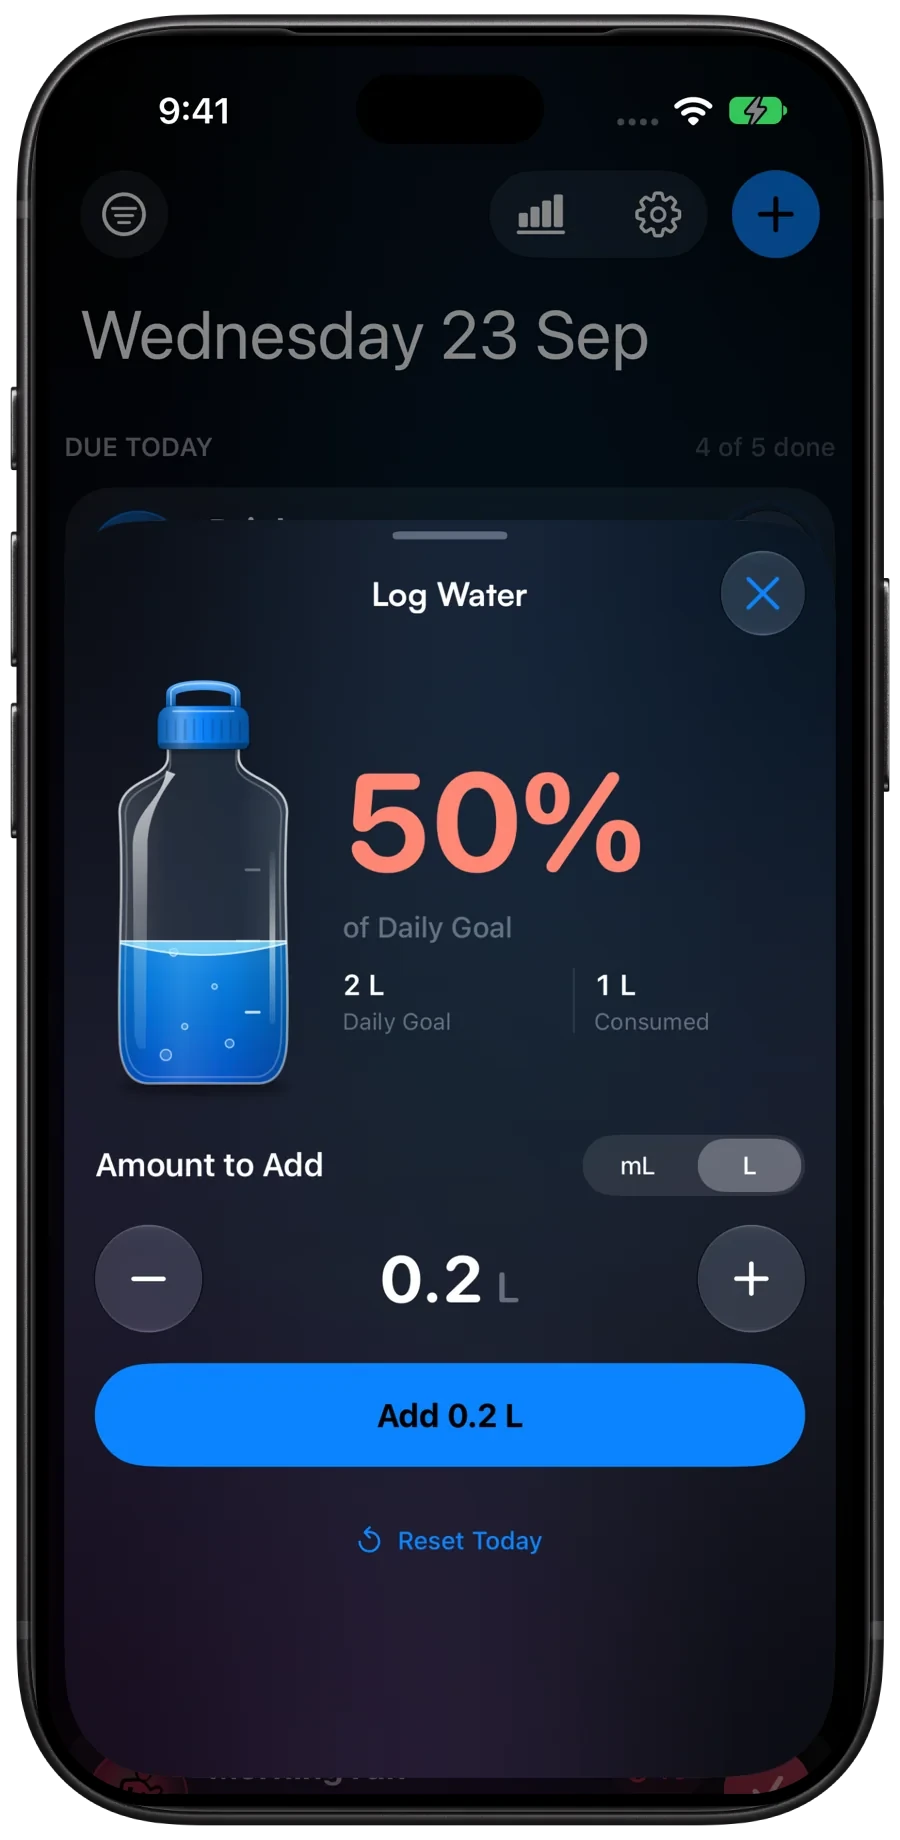
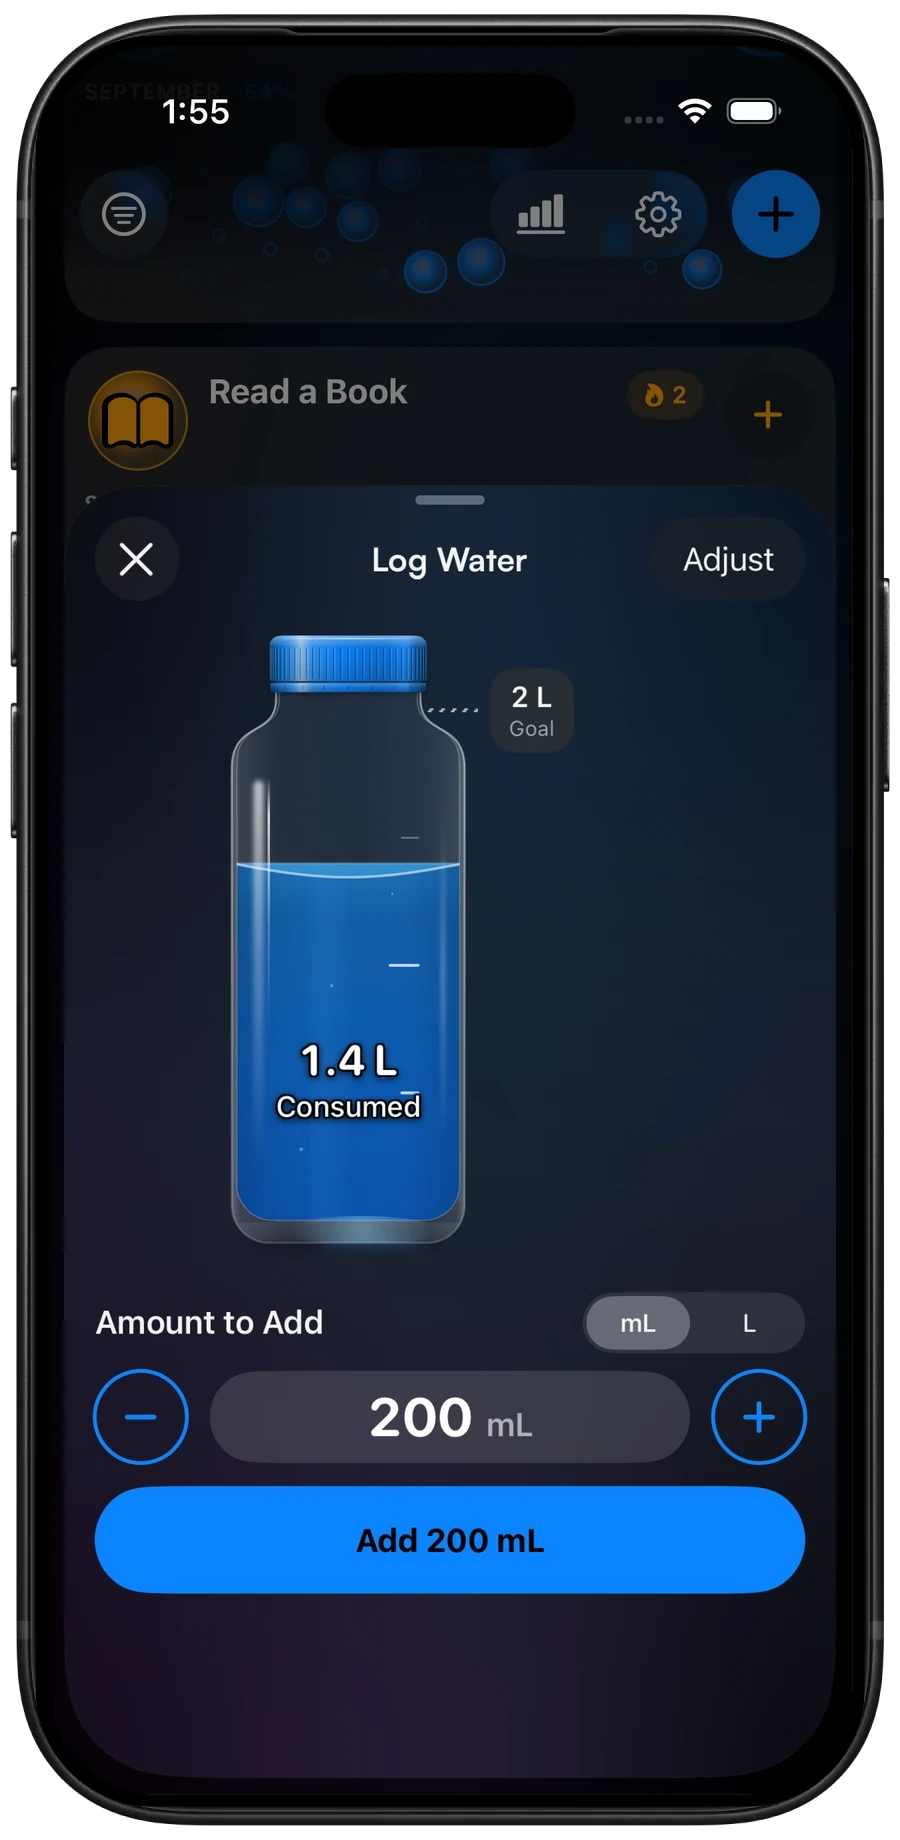
sync site content from source repo

diff --git a/support.html b/support.html
@@ -213,15 +213,35 @@
             one sip per reminder. Say you want 2,000 mL a day with a reminder every hour
             from 7:30 am to 7:30 pm. That's 13 reminders, so each tick is about 160 mL.
           </p>
-          <p>
-            Tap <strong>Add Water</strong> and the card goes 1/13, 2/13 and so on. Finish a
-            500 mL bottle and it jumps 3 ticks at once. The last tick only fills when you
-            actually reach 2,000 mL. Then the day is done and the reminders stop.
+          <p class="sum" aria-label="2,000 millilitres divided by 13 reminders is about 160 millilitres a tick">
+            <b>2,000 mL</b><span aria-hidden="true">÷</span><b>13</b> reminders
+            <span aria-hidden="true">≈</span><b>160 mL</b> a tick
           </p>
+
+          <h4>Logging a sip</h4>
           <p>
-            Tap <strong>Complete</strong> on a reminder or the + on the widget to log a sip
+            Log Water opens with 160 mL ready, one reminder's share. Tap
+            <kbd>Add 160 mL</kbd> and the card goes <b class="n">1/13</b>,
+            <b class="n">2/13</b> and so on, or nudge the amount first in 50 mL steps.
+            Finish a 500 mL bottle and it jumps 3 ticks at once. The last tick only fills
+            when you actually reach 2,000 mL. The badge beside the bottle turns green and
+            reads <span class="state">Goal Met</span>, the day is done, and the reminders
+            stop. You can still log more after that.
+          </p>
+
+          <h4>Logged too much?</h4>
+          <p>
+            Tap <kbd>Adjust</kbd>, or the amount inside the bottle, to remove 100, 250 or
+            500 mL, remove a custom amount, or reset today. Resetting asks first and keeps
+            your notes and earlier days. To change the goal itself, edit the habit.
+          </p>
+
+          <h4>From a reminder or the widget</h4>
+          <p>
+            Tap <kbd>Complete</kbd> on a reminder or <kbd>+</kbd> on the widget to log a sip
             without opening the app. HabitGlass adds 160 mL, one reminder's share of your
-            2,000 mL goal.
+            2,000 mL goal, or just what's left if you're closer than that. Once the goal is
+            met, those taps don't add anything.
           </p>
         </article>
 
@@ -229,15 +249,22 @@
           <h3>Reading</h3>
           <p>
             Reading uses the same idea with pages or minutes. Set 30 pages a day with 6
-            reminders and each tick is 5 pages. Read 12 pages and you're on 2/6. The day
-            completes at 30.
+            reminders and each tick is 5 pages. Read 12 pages and you're on
+            <b class="n">2/6</b>. The day completes at 30.
           </p>
+          <p class="sum" aria-label="30 pages divided by 6 reminders is 5 pages a tick">
+            <b>30 pages</b><span aria-hidden="true">÷</span><b>6</b> reminders
+            <span aria-hidden="true">=</span><b>5 pages</b> a tick
+          </p>
+
+          <h4>Reading by the clock</h4>
           <p>
-            Prefer to read by the clock? Set a minutes goal and log the time you read.
-            Pages are optional, so you don't have to move your bookmark. If you finish a
-            book halfway through the day, its pages still count after you start the next
-            one.
+            Set a minutes goal and log the time you read. Pages are optional, so you don't
+            have to move your bookmark. If you finish a book halfway through the day, its
+            pages still count after you start the next one.
           </p>
+
+          <h4>From a reminder or the widget</h4>
           <p>
             A reading reminder or widget tap opens the reading log, so you can say exactly
             how much you read. Nothing gets checked off for you.

diff --git a/index.html b/index.html
@@ -255,6 +255,10 @@
               Log Water puts your daily goal beside a bottle that fills as you go, in
               millilitres or litres. Nudge the amount by 50 mL before you add it.
             </p>
+            <ul class="dots">
+              <li>The goal badge turns green and reads Goal Met once you get there</li>
+              <li>Logged too much? Adjust takes some back or resets today</li>
+            </ul>
             <a class="text-link" href="#how">
               How reminders split your water goal
               <svg width="16" height="16" aria-hidden="true"><use href="#i-arrow"/></svg>
@@ -262,7 +266,7 @@
             <div class="tour-shot">
               <picture data-shot="log-water-framed">
                 <source media="(prefers-color-scheme: light)" srcset="assets/shots/log-water-framed-light.webp">
-                <img src="assets/shots/log-water-framed-dark.webp" width="900" height="1840" loading="lazy" decoding="async" alt="Log Water sheet with a half-full bottle, 1 of 2 litres consumed, and an Add 0.2 L button.">
+                <img src="assets/shots/log-water-framed-dark.webp" width="900" height="1840" loading="lazy" decoding="async" alt="Log Water sheet with the bottle at 1.4 of 2 litres, the goal beside it, and an Add 200 mL button.">
               </picture>
             </div>
           </li>
@@ -490,7 +494,7 @@
         <li class="reveal" style="--tint:#ff9f0a;--delay:150ms">
           <svg aria-hidden="true"><use href="#i-bell"/></svg>
           <h3>Reminders</h3>
-          <p>One nudge per habit, at the time that suits that habit.</p>
+          <p>Repeat every 30 minutes to 4 hours, or send follow-up nudges. They stop once today's goal is done.</p>
         </li>
         <li class="reveal" style="--tint:#30d158">
           <svg aria-hidden="true"><use href="#i-target"/></svg>

diff --git a/releases.html b/releases.html
@@ -145,6 +145,7 @@
                   <li>Attach books to Read a Book, log pages, and keep finished books in history.</li>
                   <li>See your book in 3D while logging, with a bookmark that moves to the next page.</li>
                   <li>Track water against a daily goal with a live bottle and quick amount controls.</li>
+                  <li>Reach your water goal and the bottle celebrates with a shimmer and a Goal Met check.</li>
                 </ul>
               </section>
             </div>
@@ -161,7 +162,13 @@
               <figure class="release-slide" data-label="Log Water">
                 <picture data-shot="log-water-framed">
                   <source media="(prefers-color-scheme: light)" srcset="assets/shots/log-water-framed-light.webp">
-                  <img src="assets/shots/log-water-framed-dark.webp" width="900" height="1840" loading="lazy" alt="Log Water with a half-full bottle, daily goal, and controls for adding water.">
+                  <img src="assets/shots/log-water-framed-dark.webp" width="900" height="1840" loading="lazy" alt="Log Water with the bottle at 1.4 of 2 litres, the goal beside it, and an Add 200 mL button.">
+                </picture>
+              </figure>
+              <figure class="release-slide" data-label="Goal met">
+                <picture data-shot="log-water-goal-framed">
+                  <source media="(prefers-color-scheme: light)" srcset="assets/shots/log-water-goal-framed-light.webp">
+                  <img src="assets/shots/log-water-goal-framed-dark.webp" width="900" height="1840" loading="lazy" alt="Log Water with a full bottle, a check beside Consumed, and a green Goal Met badge.">
                 </picture>
               </figure>
               <figure class="release-slide" data-label="Read a Book">

diff --git a/assets/css/site.css b/assets/css/site.css
@@ -1849,6 +1849,79 @@ section {
   color: var(--ink);
 }
 
+.guide h4 {
+  margin-top: 1.9rem;
+  font-size: 1rem;
+  font-weight: 700;
+  letter-spacing: -0.01em;
+  color: var(--ink);
+}
+
+.guide h4 + p {
+  margin-top: 0.45rem;
+}
+
+/* App buttons named in the copy: Add 160 mL, Adjust, Complete. */
+.guide kbd {
+  white-space: nowrap;
+  padding: 0.1em 0.55em;
+  border: 1px solid var(--hairline);
+  border-radius: 999px;
+  background: var(--glass-strong);
+  color: var(--ink);
+  font: inherit;
+  font-size: 0.9em;
+  font-weight: 700;
+}
+
+/* The in-app status badge, green like it is on the bottle. */
+.guide .state {
+  --status-accent: #30d158;
+  white-space: nowrap;
+  padding: 0.1em 0.55em;
+  border: 1px solid color-mix(in srgb, var(--status-accent) 32%, transparent);
+  border-radius: 999px;
+  background: color-mix(in srgb, var(--status-accent) 12%, transparent);
+  color: var(--ink);
+  font-size: 0.9em;
+  font-weight: 700;
+}
+
+[data-theme='light'] .guide .state {
+  --status-accent: #0d8a3c;
+}
+
+/* Progress readouts like 2/13. */
+.guide .n {
+  color: var(--ink);
+  font-weight: 700;
+  font-variant-numeric: tabular-nums;
+}
+
+/* The worked example: goal ÷ reminders = one tick. */
+.guide .sum {
+  display: flex;
+  flex-wrap: wrap;
+  align-items: baseline;
+  gap: 0.35rem 0.5rem;
+  margin-top: 1.1rem;
+  padding: 0.8rem 0;
+  border-block: 1px solid var(--hairline);
+  color: var(--ink-mute);
+  font-variant-numeric: tabular-nums;
+}
+
+.guide .sum b {
+  color: var(--ink);
+  font-size: 1.15rem;
+  font-weight: 800;
+  letter-spacing: -0.01em;
+}
+
+.guide .sum span {
+  color: var(--ink-faint);
+}
+
 .contact {
   display: grid;
   grid-template-columns: minmax(0, 1.2fr) minmax(0, 0.8fr);
